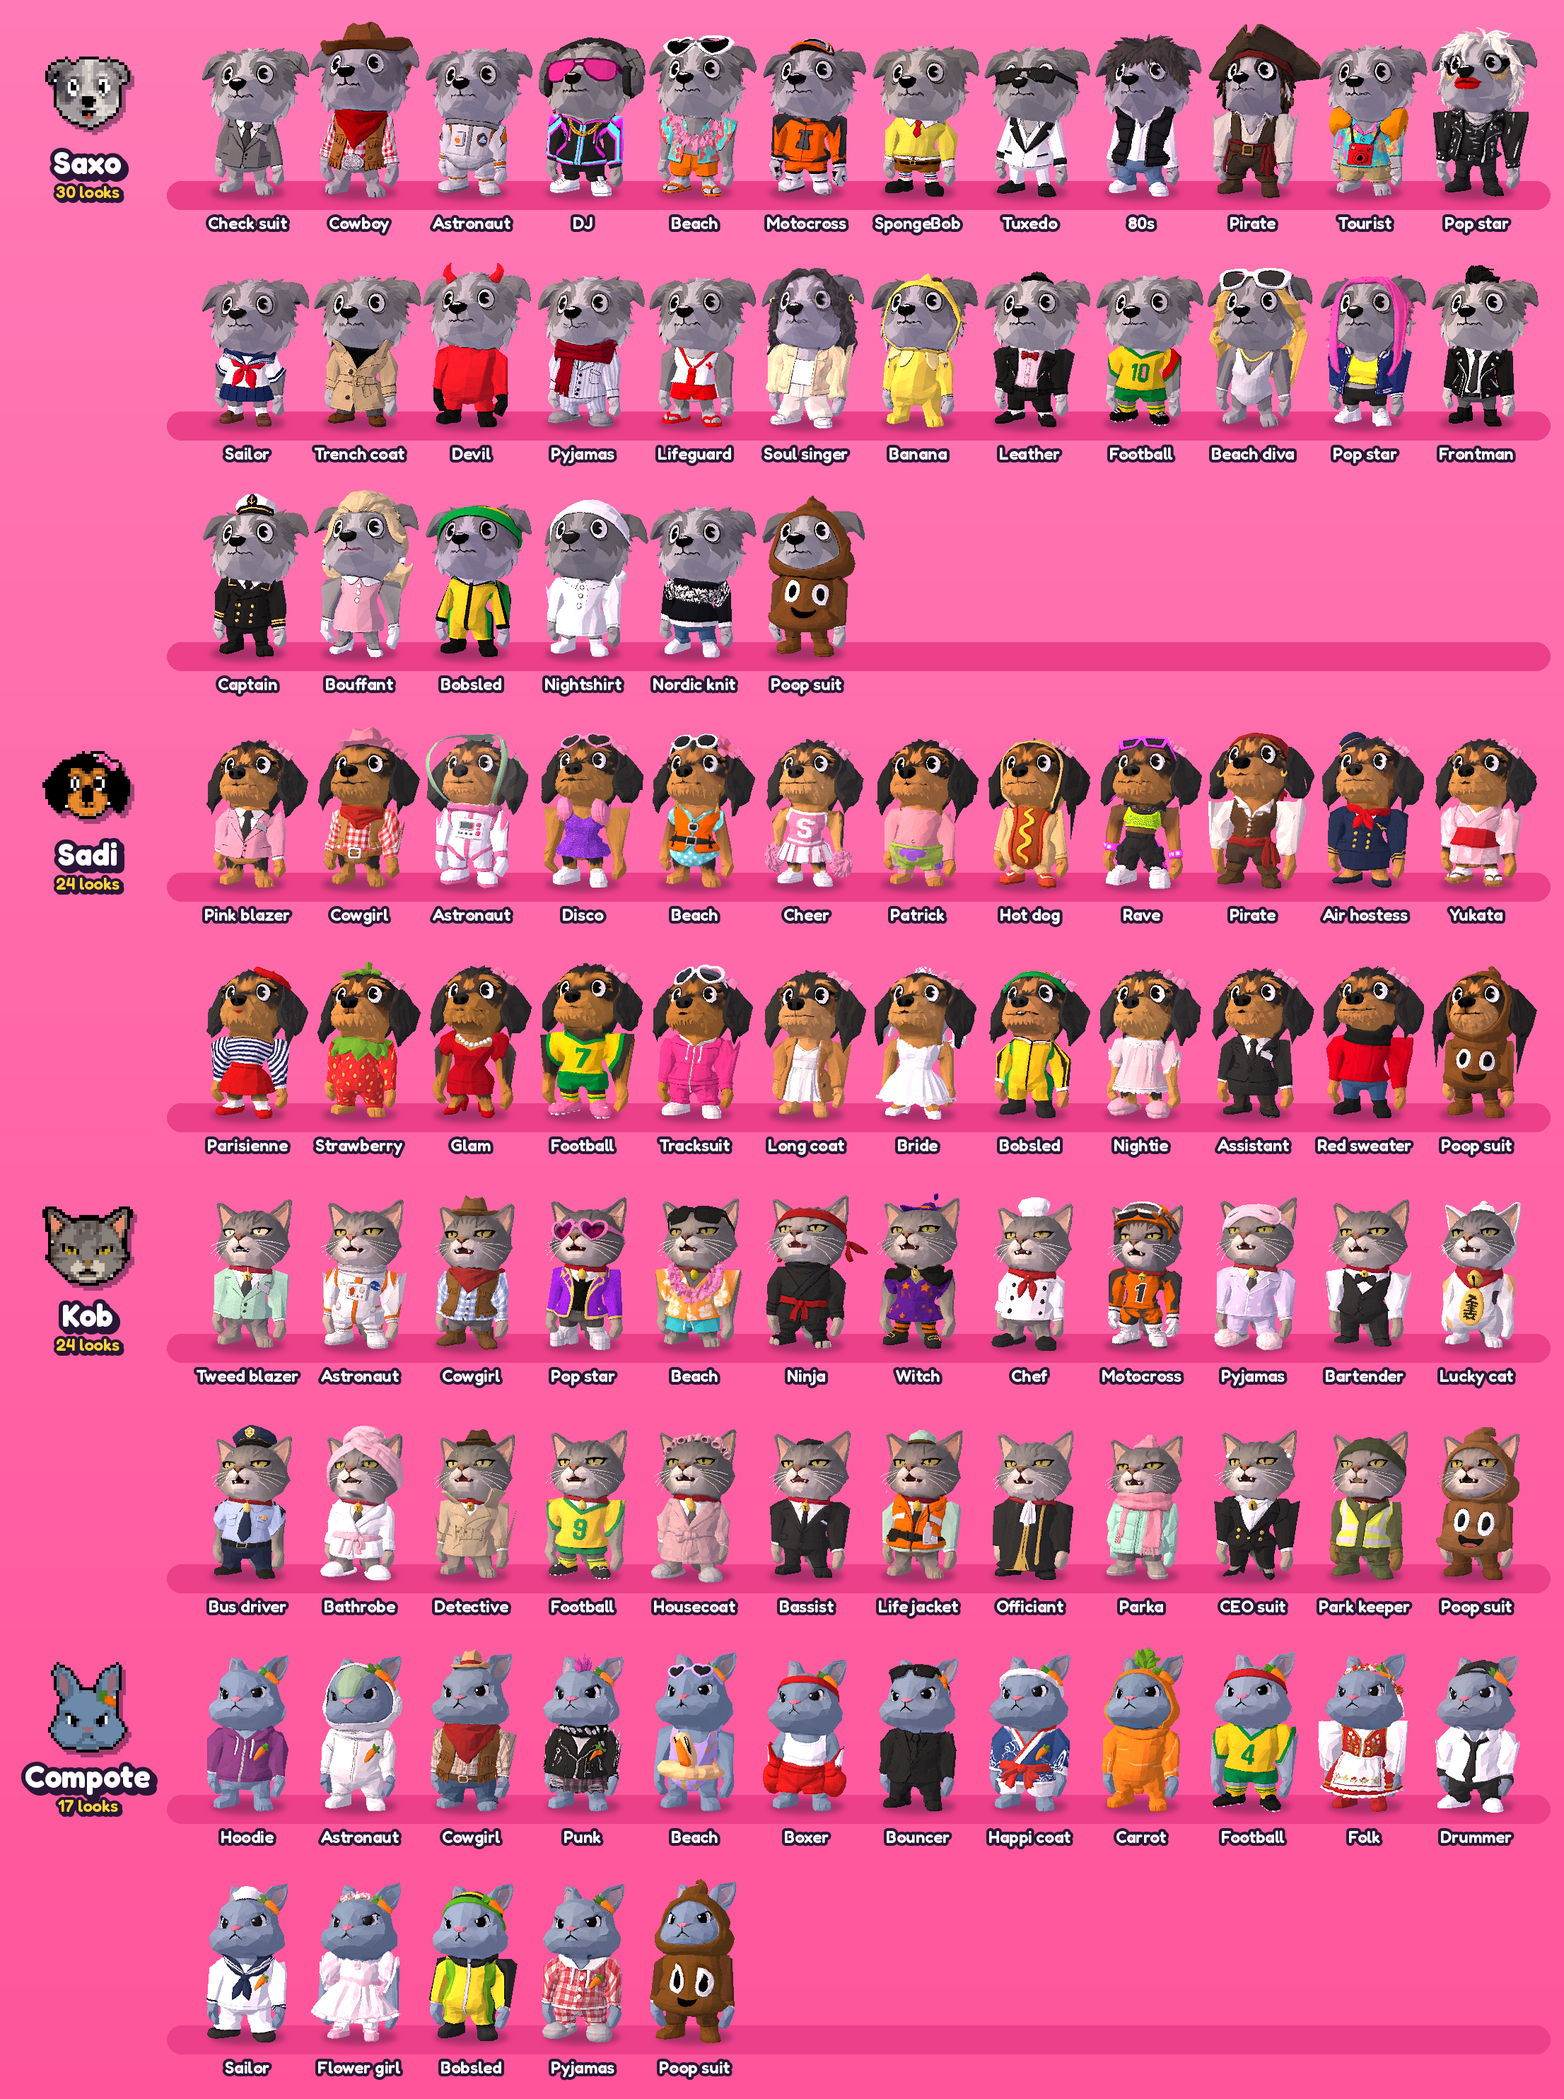
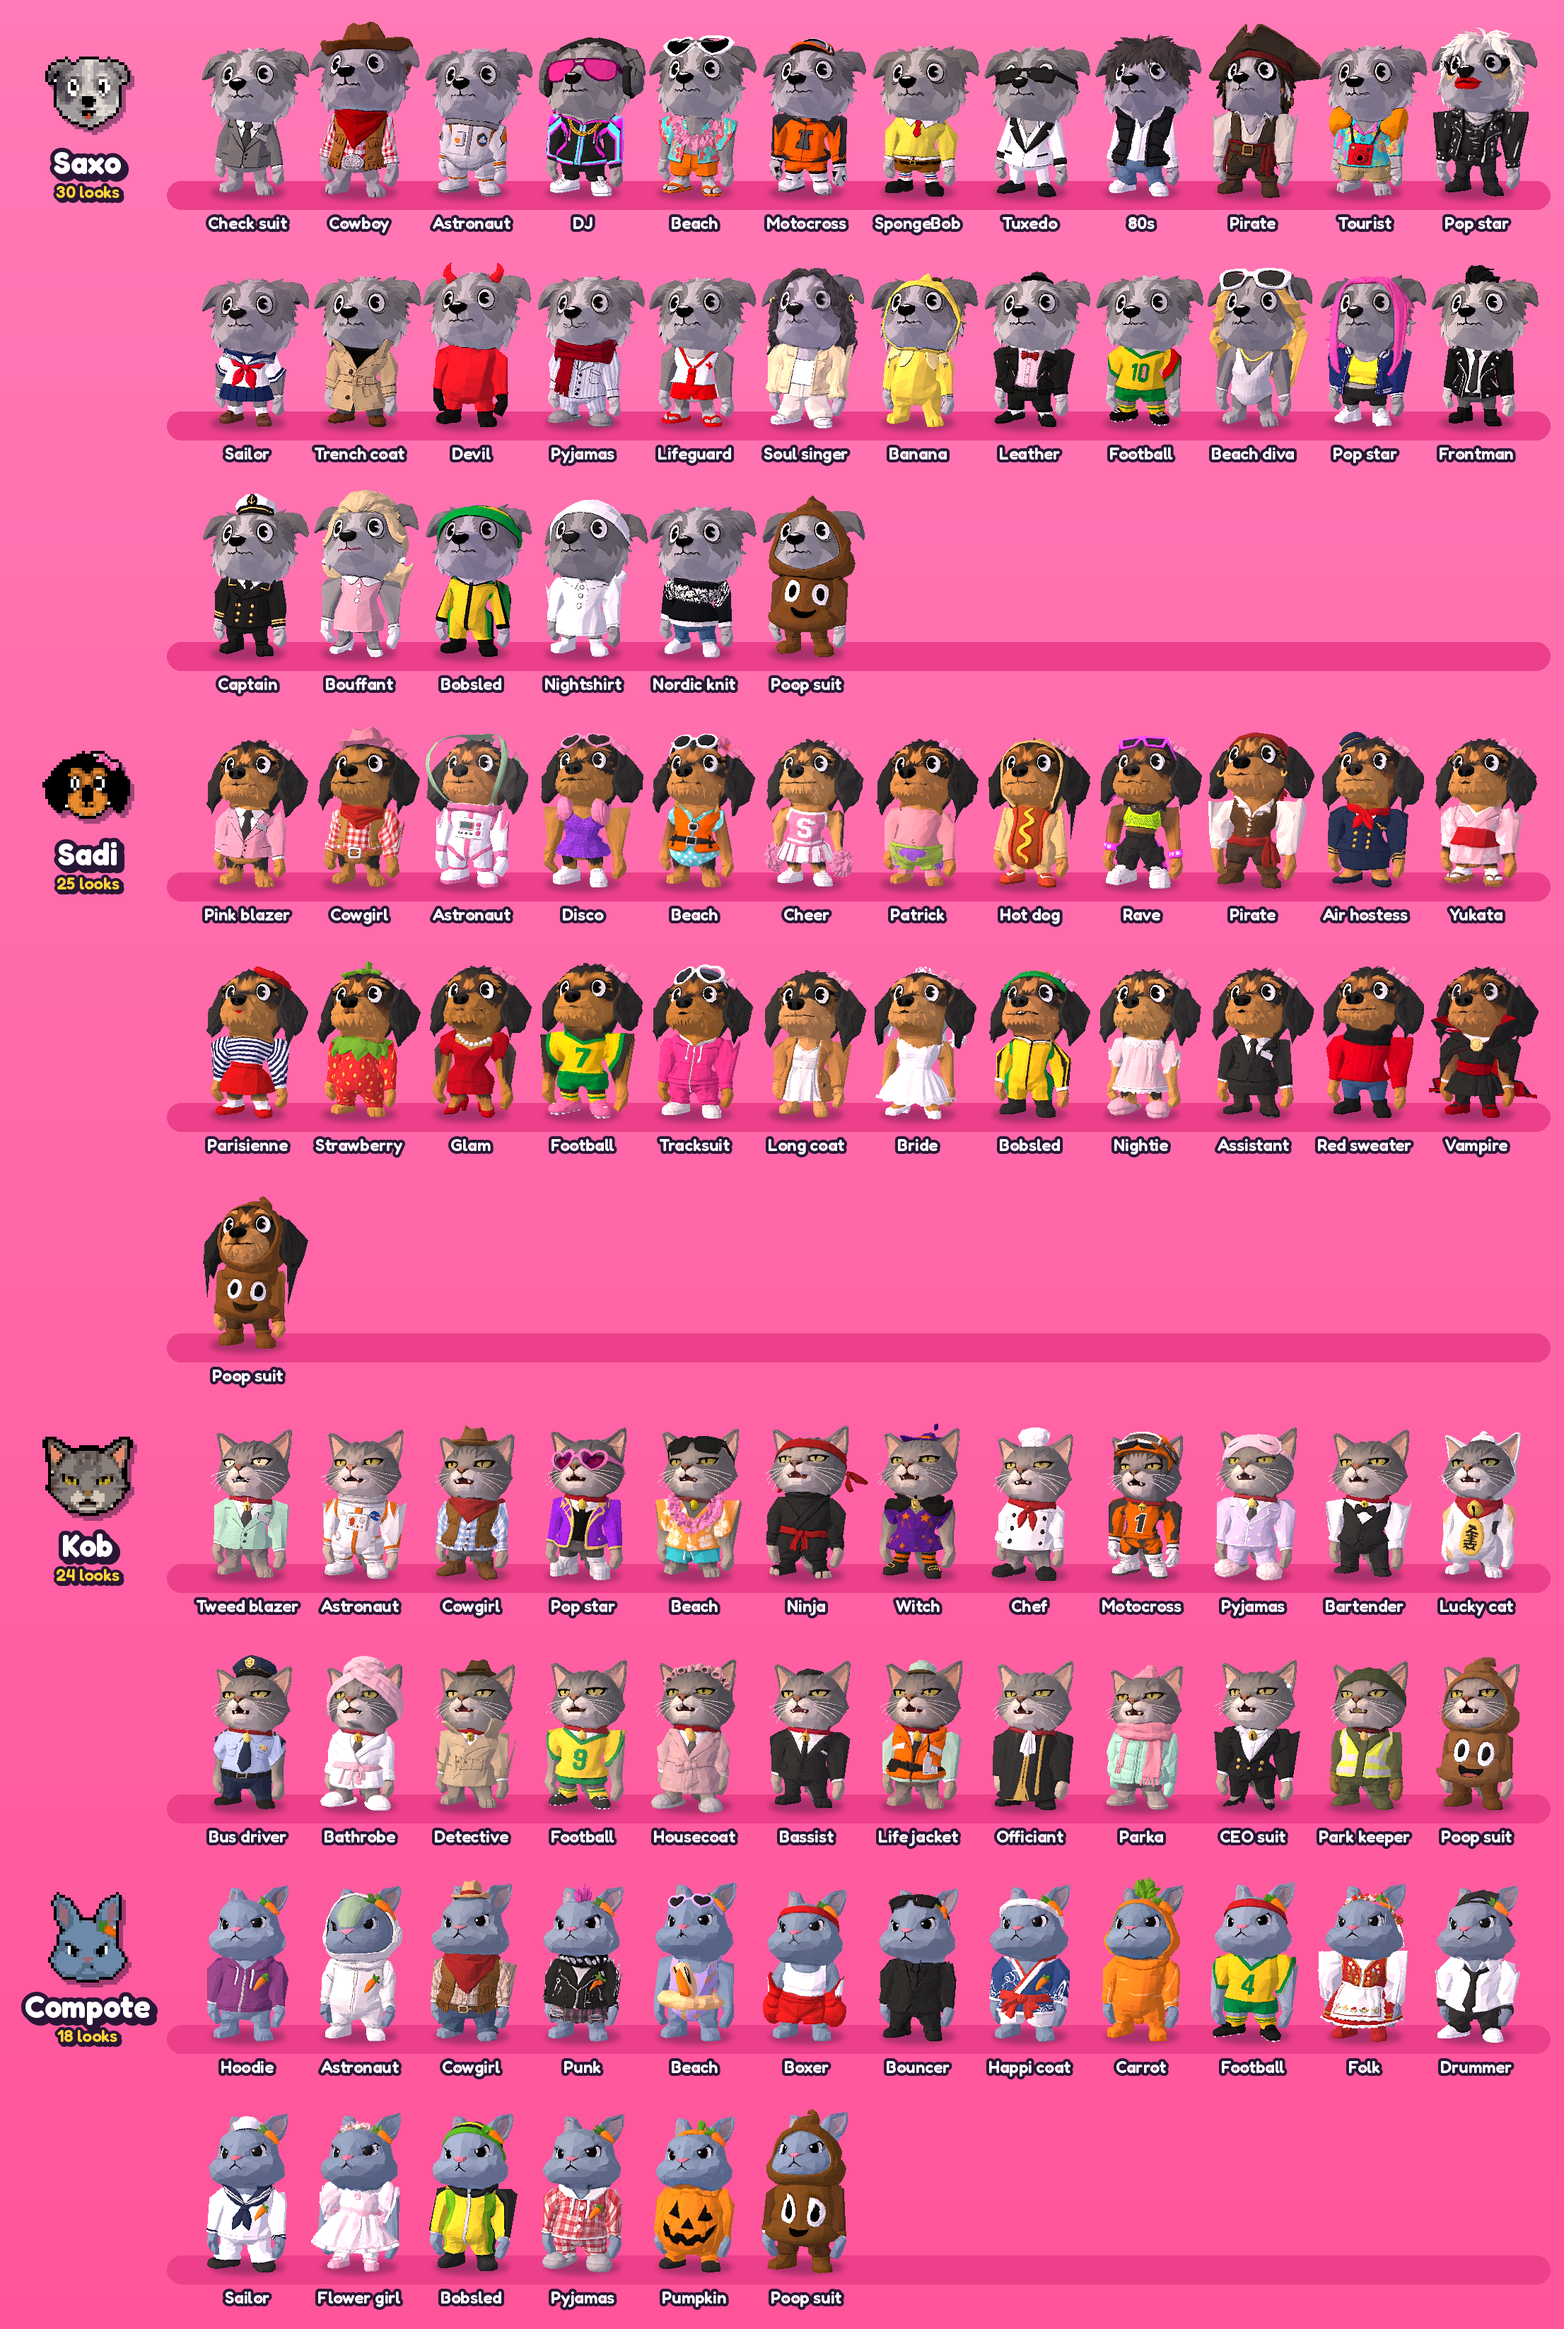
Sync with 148a29b: docs(readme): the cemetery tile, the vampire and pumpkin looks, the skeleton rig

diff --git a/README.md b/README.md
@@ -98,7 +98,7 @@ in Bikini Bottom, a hot dog in the supermarket. The poop suit is never automatic
 ## 63 maps, and counting
 
 <p align="center">
-  <img src="docs/readme/maps.png" width="100%" alt="The maps, from the street, club and moon to Tokyo, Paris, the yacht, the techno club, the treasure cave, the black ship, the plane, the chapel club, the desert village, the blossom festival, the pier at dusk, the night bus, a house party, a hospital ward, a water park, a radio studio, a fruits-only warehouse party, a film-noir night street, a cup final under the floodlights, a tiny Earth in space, a baobab on the savanna, a Spanish beach, a grey housing estate, a desert stage, a band trailer, a pink childhood bedroom, a schooner that sinks, a white wedding chapel, a Kingston beach, an Olympic bobsled track at night, a gothic tower ledge in the rain, a talent agency at night with the CEO's red office and a city park in autumn, each with the cast in costume">
+  <img src="docs/readme/maps.png" width="100%" alt="The maps, from the street, club and moon to Tokyo, Paris, the yacht, the techno club, the treasure cave, the black ship, the plane, the chapel club, the desert village, the blossom festival, the pier at dusk, the night bus, a house party, a hospital ward, a water park, a radio studio, a fruits-only warehouse party, a film-noir night street, a cup final under the floodlights, a tiny Earth in space, a baobab on the savanna, a Spanish beach, a grey housing estate, a desert stage, a band trailer, a pink childhood bedroom, a schooner that sinks, a white wedding chapel, a Kingston beach, an Olympic bobsled track at night, a gothic tower ledge in the rain, a talent agency at night with the CEO's red office, a city park in autumn and a graveyard on Halloween night, each with the cast in costume">
 </p>
 
 Every map is built from primitives in [`src/maps*.js`](src/) and animated as a pure function of time, mostly on the
@@ -192,7 +192,9 @@ goes further: up to 99 copies of one look share a single hidden skeleton, so a w
 of one pose, in rows, in a ring or on tiered shelves, even washed to porcelain white (a shrine's display of lucky-cat
 statues, with the real cat hiding among them), or a single copy at a quarter of the size: a tiny devil on Saxo's
 shoulder. Any character can also be scaled up into a giant that rises out of the sea and sinks back, and arm poses
-lock to the beat on top of any clip: paws flapping by the ears, a lucky cat's beckon, sticks beating a taiko.
+lock to the beat on top of any clip: paws flapping by the ears, a lucky cat's beckon, sticks beating a taiko. Even
+a skeleton rides the rig: a cartoon one built from primitives on Saxo's bind pose and skinned rigidly to a clone of
+his skeleton, so the graveyard's dancers play every clip too, and can lose a leg to a hungry dog.
 
 ### A QA gate that can say no
 
